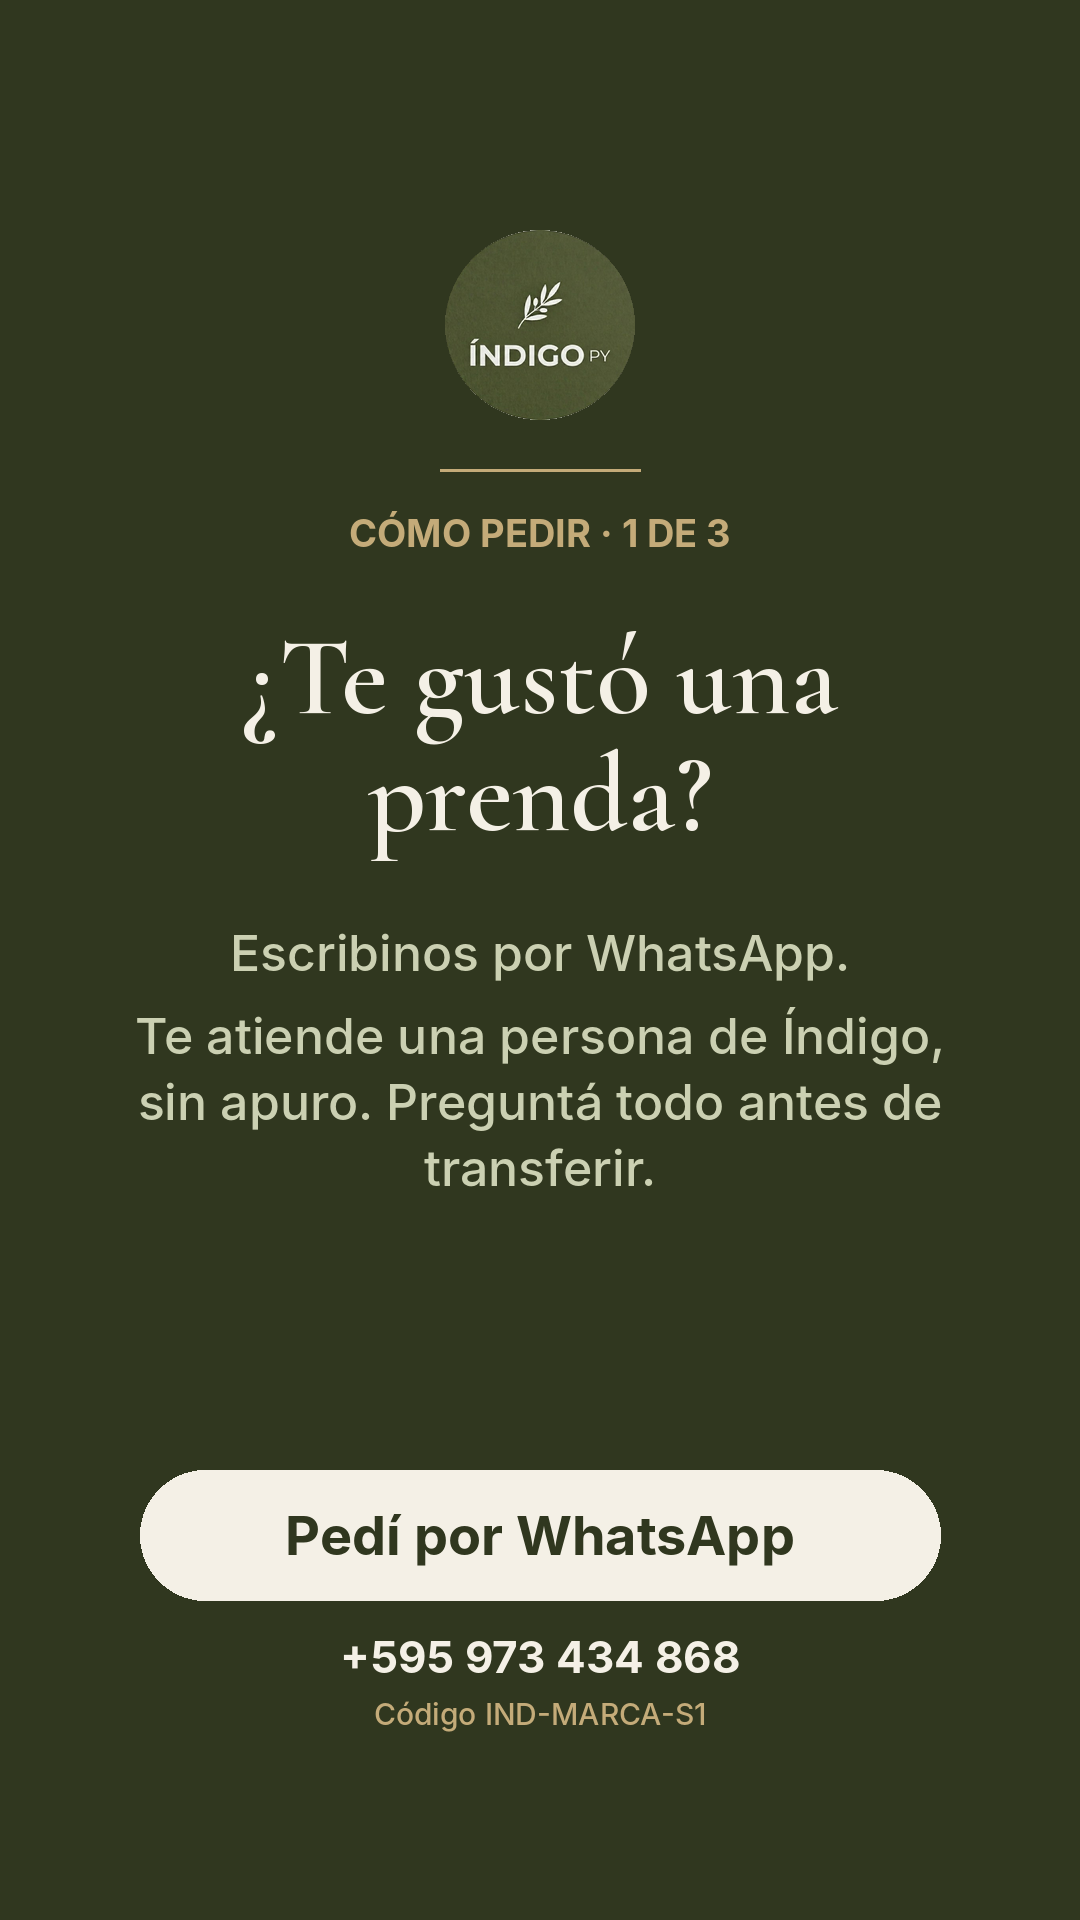
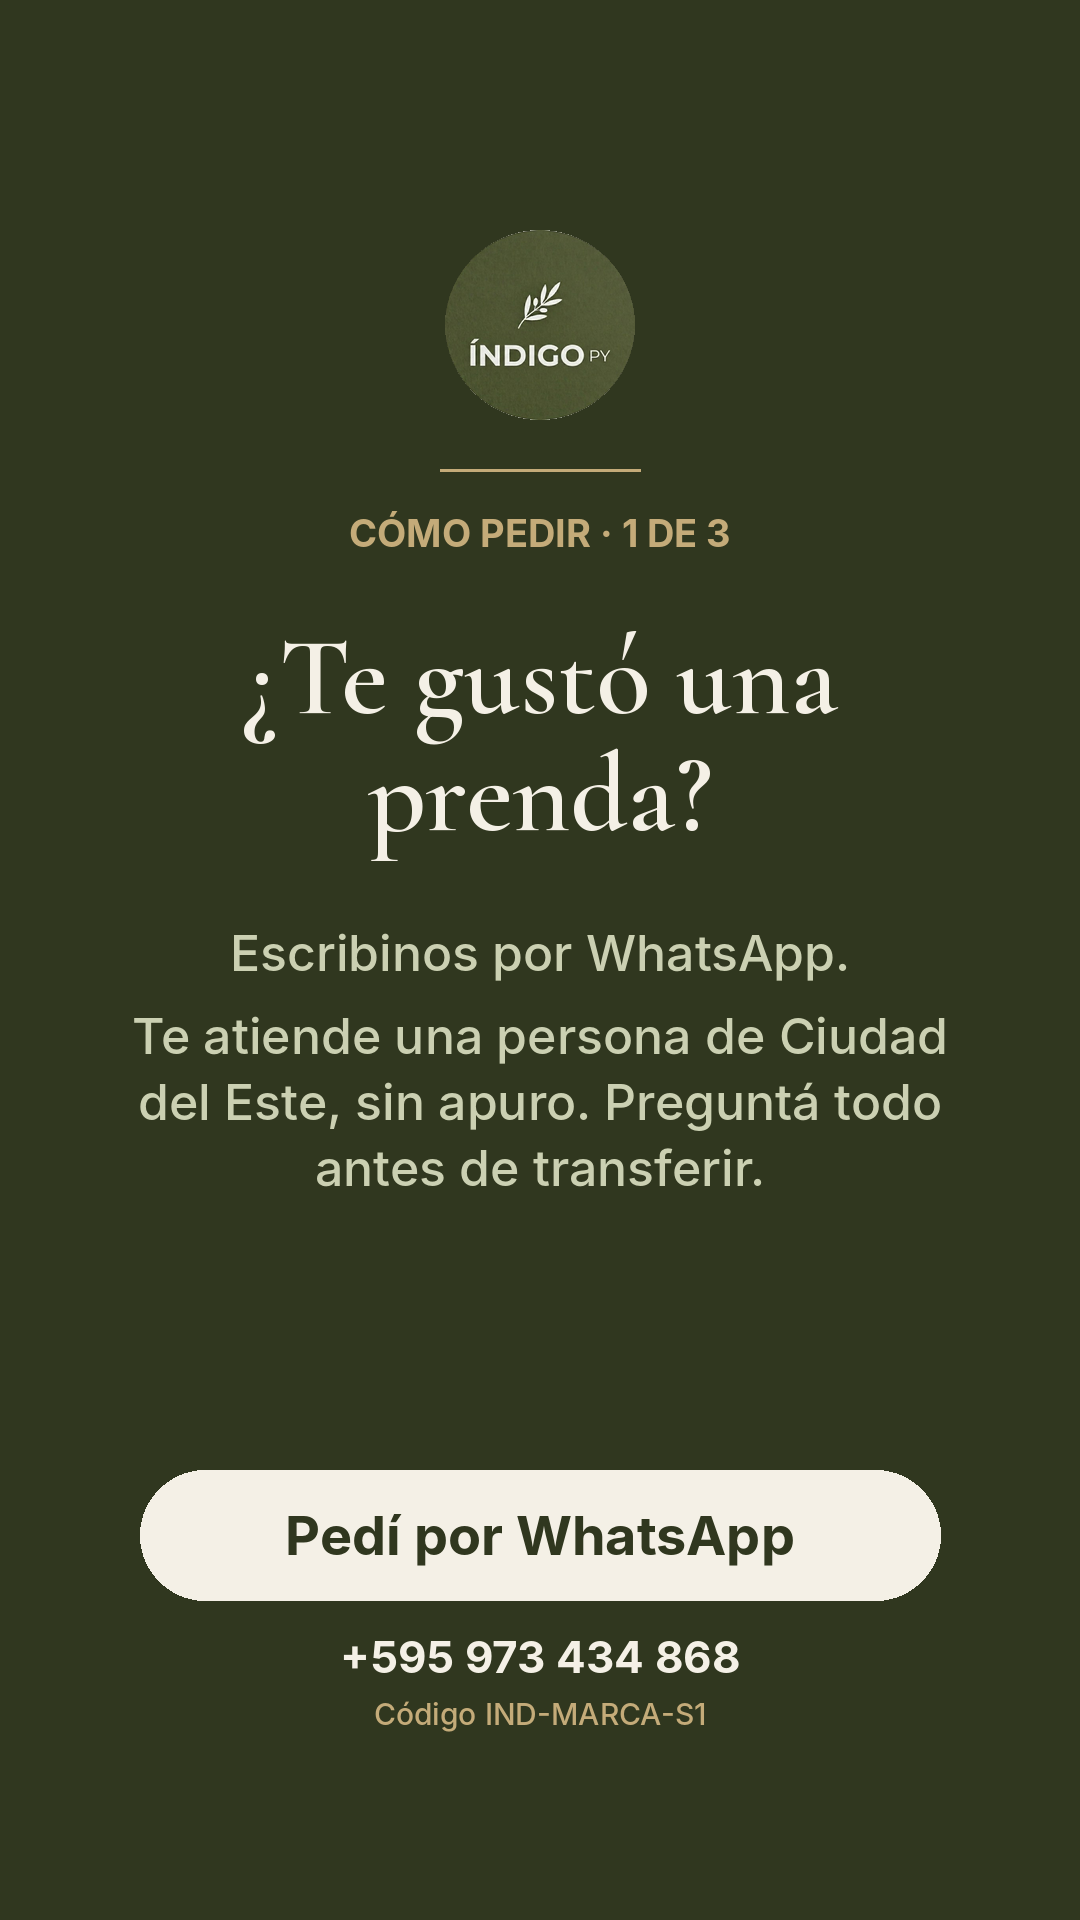
productor 2026-11-15: S1 con Ciudad del Este, stories también al estado de WhatsApp, paquetes del 15 y 16/11

Changed region(s): [[0.1222, 0.5312, 0.8861, 0.625]]

diff --git a/docs/campanas/hoy/2026-11-16.md b/docs/campanas/hoy/2026-11-16.md
@@ -1,38 +1,46 @@
 # Paquete del día — lunes 16/11/2026
 
-**Instagram · stories · 20:30** (Marco responde desde las 20:00). Gancho: "Preguntá todo antes de transferir".
-Subí las 3 seguidas, en orden. En cada una poné un **sticker de enlace** con su link (así cada consulta trae su código) y no tapes el botón ni el número.
+**Instagram (stories) + estado de WhatsApp · 20:30** (Marco responde desde las 20:00). Gancho: "Preguntá todo antes de transferir".
 
-### Story 1 · `docs/campanas/2026-W47/marca/story_01.png`
-- Sticker de enlace: `https://wa.me/595973434868?text=Hola%2C%20vengo%20por%20IND-MARCA-S1`
-- Texto del sticker: `Pedí por WhatsApp`
-- Texto para la descripción (si lo compartís como publicación o para tu registro):
+**Antes de subir:** la story 3 dice que se transfiere con prenda, talle y total confirmados. Si así no es como cobrás a una clienta nueva, no subas la 3 y avisá.
 
+Archivos: `docs/campanas/2026-W47/marca/story_01.png`, `story_02.png` y `story_03.png`.
+
+## 1. Instagram (stories)
+Subí las 3 seguidas, en orden. En cada una poné un **sticker de enlace** con su link y el texto `Pedí por WhatsApp`, sin tapar el botón ni el número.
+
+| Story | Archivo | Link del sticker |
+|---|---|---|
+| 1 | `story_01.png` | `https://wa.me/595973434868?text=Hola%2C%20vengo%20por%20IND-MARCA-S1` |
+| 2 | `story_02.png` | `https://wa.me/595973434868?text=Hola%2C%20vengo%20por%20IND-MARCA-S2` |
+| 3 | `story_03.png` | `https://wa.me/595973434868?text=Hola%2C%20vengo%20por%20IND-MARCA-S3` |
+
+## 2. Estado de WhatsApp
+Subí las mismas 3 imágenes, en orden, con este texto debajo de cada una (copiá y pegá). Acá no hace falta link: la clienta responde el estado y te llega como chat.
+
+Story 1 (`story_01.png`):
 ```
-¿Te gustó una prenda? Escribinos por WhatsApp y preguntá todo antes de transferir. Te atiende una persona de Índigo. IND-MARCA-S1
+¿Te gustó una prenda? Respondé este estado y preguntá todo antes de transferir. Te atiende una persona de Ciudad del Este. IND-MARCA-S1
 ```
 
-### Story 2 · `docs/campanas/2026-W47/marca/story_02.png`
-- Sticker de enlace: `https://wa.me/595973434868?text=Hola%2C%20vengo%20por%20IND-MARCA-S2`
-- Texto del sticker: `Pedí por WhatsApp`
-- Texto para la descripción (si lo compartís como publicación o para tu registro):
-
+Story 2 (`story_02.png`):
 ```
-Contanos qué talle usás y cómo te gusta que te quede: te ayudamos a elegir. IND-MARCA-S2
+Contanos qué talle usás y cómo te gusta que te quede: respondé este estado y te ayudamos a elegir. IND-MARCA-S2
 ```
 
-### Story 3 · `docs/campanas/2026-W47/marca/story_03.png`
-- Sticker de enlace: `https://wa.me/595973434868?text=Hola%2C%20vengo%20por%20IND-MARCA-S3`
-- Texto del sticker: `Pedí por WhatsApp`
-- Texto para la descripción (si lo compartís como publicación o para tu registro):
-
+Story 3 (`story_03.png`):
 ```
-Pagás por transferencia cuando ya está todo confirmado. Enviamos a todo Paraguay por transportadora: consultá costo y plazo para tu zona. IND-MARCA-S3
+Pagás por transferencia cuando ya está todo confirmado. Enviamos a todo Paraguay por transportadora: para costo y plazo a tu zona, respondé este estado. IND-MARCA-S3
 ```
 
 ## Después de publicar
-- Al día siguiente, anotá por story: vistas, toques al enlace y chats que llegaron con cada código.
-- Si alguien escribe, usá los guiones de `docs/campanas/whatsapp.md`.
+- A las 72 horas, anotá en `docs/resultados/registro.csv` una fila por story y por red (`instagram` y `whatsapp`): alcance (en el estado, las vistas) y consultas (en el estado, las respuestas). Formato en `docs/resultados/README.md`.
+- Si alguien escribe, usá los guiones de `docs/campanas/whatsapp.md`. Nunca des un pago por hecho con una captura: mirá el banco.
 
-## Adelanto del jueves 19/11 (20:30)
-`story_04.png` "¿Qué talle de jean usás?": poné el **sticker de preguntas** en el espacio libre del medio y el sticker de enlace con `https://wa.me/595973434868?text=Hola%2C%20vengo%20por%20IND-MARCA-S4`.
+## Adelanto del jueves 19/11 (20:30) · Instagram + estado de WhatsApp
+`story_04.png` "¿Qué talle de jean usás?".
+- Instagram: poné el **sticker de preguntas** en el espacio libre del medio y el sticker de enlace con `https://wa.me/595973434868?text=Hola%2C%20vengo%20por%20IND-MARCA-S4`.
+- Estado de WhatsApp: la misma imagen con este texto:
+```
+¿Qué talle de jean usás? Respondé este estado y te ayudamos con el talle. IND-MARCA-S4
+```

diff --git a/docs/campanas/hoy/2026-11-15.md b/docs/campanas/hoy/2026-11-15.md
@@ -1,13 +1,18 @@
 # Paquete del día — domingo 15/11/2026
 
-**Hoy no se sube nada.** El plan de la semana arranca el lunes 16/11.
+**Hoy no se sube nada.** El plan de la semana (`docs/estrategia/plan-semana.md`, ya en main) arranca el lunes 16/11.
 
-## Lo que quedó listo para mañana
-Las 3 stories "Cómo pedir" (sin prenda) para el lunes 16/11 a las 20:30. Están en `docs/campanas/2026-W47/marca/` y el paso a paso para subirlas está en `docs/campanas/hoy/2026-11-16.md`.
-También quedó lista la story de talle del jueves 19/11 (`story_04.png`).
+## Lo que quedó listo
+- Lunes 16/11, 20:30: las 3 stories "Cómo pedir", para Instagram y el estado de WhatsApp. Paso a paso en `docs/campanas/hoy/2026-11-16.md`.
+- Jueves 19/11, 20:30: la story de talle (`story_04.png`), para Instagram y el estado de WhatsApp.
+- Archivos: `docs/campanas/2026-W47/marca/`.
+
+## Antes de publicar el lunes
+- **Story 3:** dice "Con prenda, talle y total confirmados, te pasamos los datos para transferir". Marco, confirmá que así cobrás a una clienta nueva (pregunta 4 del plan). Si no es así, no la subas y avisá para cambiarla.
 
 ## Lo que sigue bloqueado
-Las piezas con prenda (jean A, blusa B, pantalón C, Reel) necesitan prendas reales. En /probador solo hay 4 prendas de ejemplo y `catalogo.csv` solo tiene DEMO-JEAN. Para destrabar, Marco tiene que:
-1. Cargar el jean A (y si puede, la blusa B y el pantalón C) con fotos propias de frente, espalda y detalle. Si sabés el precio y los talles, sumalos: sin eso no se hace la prueba A/B del miércoles.
-2. Confirmar por escrito si se puede usar en redes la foto de /probador/modelo.jpg.
-3. Aprobar el plan de la semana (`docs/estrategia/plan-semana.md`, todavía en la rama `operador/estrategia-2026-11-15`, no en main).
+Las piezas con prenda (jean A con portadas A y B, blusa B, pantalón C y el Reel) necesitan prendas reales. En la tienda solo hay 4 prendas de ejemplo y `catalogo.csv` solo tiene DEMO-JEAN. Para destrabar:
+1. Cargá el jean A (y si podés, la blusa B y el pantalón C) con fotos propias de frente, espalda y detalle, y su fila en `catalogo.csv`.
+2. Para la prueba del martes y el miércoles, el jean A tiene que tener precio y talles antes del martes. Si no, la prueba pasa al 24 y 25.
+3. Decí por escrito si se puede usar en redes la foto de la modelo del probador, y qué talle usa.
+4. Para el Reel del sábado hacen falta clips tuyos, sin marca de agua de otra app.

diff --git a/.claude/skills/story-marca/SKILL.md b/.claude/skills/story-marca/SKILL.md
@@ -5,9 +5,10 @@ description: Stories de marca sin prenda (1080x1920) para Índigo Py, con colore
 
 # Stories de marca
 
-1. Armá un JSON con la lista de piezas: `archivo`, `etiqueta`, `titulo`, `cuerpo` (usá \n para separar párrafos), `codigo` y, si lleva sticker de preguntas, `hueco_sticker: true` (texto corto, para que quede espacio libre en el medio).
+1. Armá un JSON (guardalo como `docs/campanas/<semana>/marca/piezas.json`, junto a los PNG) con la lista de piezas: `archivo`, `etiqueta`, `titulo`, `cuerpo` (usá \n para separar párrafos), `codigo` y, si lleva sticker de preguntas, `hueco_sticker: true` (texto corto, para que quede espacio libre en el medio).
 2. `python3 .claude/skills/story-marca/hacer_stories.py docs/campanas/<semana>/marca piezas.json`
 3. Mirá todas juntas en una hoja de contacto achicada a 540 px de ancho: si no se lee a ese tamaño, no se lee en el celular.
 4. Textos: solo datos de marca.toml (WhatsApp, transferencia, envíos a todo Paraguay por transportadora). Precio, talle, plazo o costo de envío: "consultá por WhatsApp".
 5. Nunca dibujes avisos tipo "(acá va el sticker)" dentro de la imagen: se publicarían.
 6. Zonas seguras: nada importante arriba de y=230 ni abajo de y=1750.
+7. Si la story va también al estado de WhatsApp: la misma imagen, texto con "Respondé este estado" y el mismo código. No hay sticker de enlace ni de preguntas.

diff --git a/docs/campanas/PROGRESO-productor.md b/docs/campanas/PROGRESO-productor.md
@@ -15,3 +15,11 @@
 - Paquetes: `hoy/2026-11-15.md` (no se sube nada) y `hoy/2026-11-16.md` (las 3 stories, 20:30).
 - Skill nueva: `.claude/skills/story-marca`.
 - Sigue: piezas 2, 3, 5, 6 y 7 del plan (jean A, blusa B, pantalón C, Reel) cuando Marco cargue prendas reales.
+
+## 2026-11-15 (domingo, 3.ª corrida)
+- El plan ya está en main (#18, #19). Mergeé main en esta rama (sin conflictos): el PR #14 ahora solo toca `docs/campanas/`, `.claude/skills/` y `APRENDIZAJES.md`.
+- Las 4 prendas de /probador siguen con `ejemplo: true` y `catalogo.csv` solo tiene DEMO-JEAN: piezas 2, 3, 5, 6 y 7 bloqueadas. Gasto en /probador/probar: 0 (0 de 10 esta semana).
+- Ajustes por el plan nuevo: story_01 dice "una persona de Ciudad del Este" (§9); S1–S4 van también al estado de WhatsApp (§12), con su texto en `textos.json` y en los paquetes. Mismo código por story; en el registro, otra fila con red `whatsapp`.
+- Guardé `marca/piezas.json`: regenera las 4 stories idénticas con la skill.
+- Paquetes: `hoy/2026-11-15.md` (no se sube nada) y `hoy/2026-11-16.md` (Instagram + estado, 20:30). S3 espera la confirmación de Marco (pregunta 4).
+- Sigue: cuando haya jean A real, carrusel C1 (portada "Así queda puesto") y C1B (precio y talles del CSV, primera línea con el rango de talles).

diff --git a/docs/agentes/APRENDIZAJES.md b/docs/agentes/APRENDIZAJES.md
@@ -17,3 +17,8 @@ Nada de acá puede aflojar las "Reglas que no se rompen" del prompt ni de `CLAUD
 - Si el plan no está en main, buscalo en las ramas `operador/estrategia-*` (`git fetch origin`): ahí estaba.
 - Aunque no haya prendas reales, las piezas "sin prenda" del plan (cómo pedir, talle) sí se pueden hacer: no dejar la corrida en cero.
 - En stories con sticker, dejá el espacio vacío: un aviso dibujado ("acá va el sticker") se termina publicando.
+
+## 2026-11-15 (productor, 3.ª corrida)
+- Si tu rama vieja quedó atrás de main, mergeá `origin/main` (después de `git fetch origin main`: `origin/main` local puede estar viejo) antes de evaluar qué toca el PR.
+- Guardá el JSON de entrada de cada pieza junto a los PNG: sin él, corregir una palabra obliga a reconstruir todo el texto.
+- El estado de WhatsApp no tiene sticker de enlace ni de preguntas: misma imagen, texto "Respondé este estado" y mismo código; en el registro va otra fila con red `whatsapp`.
